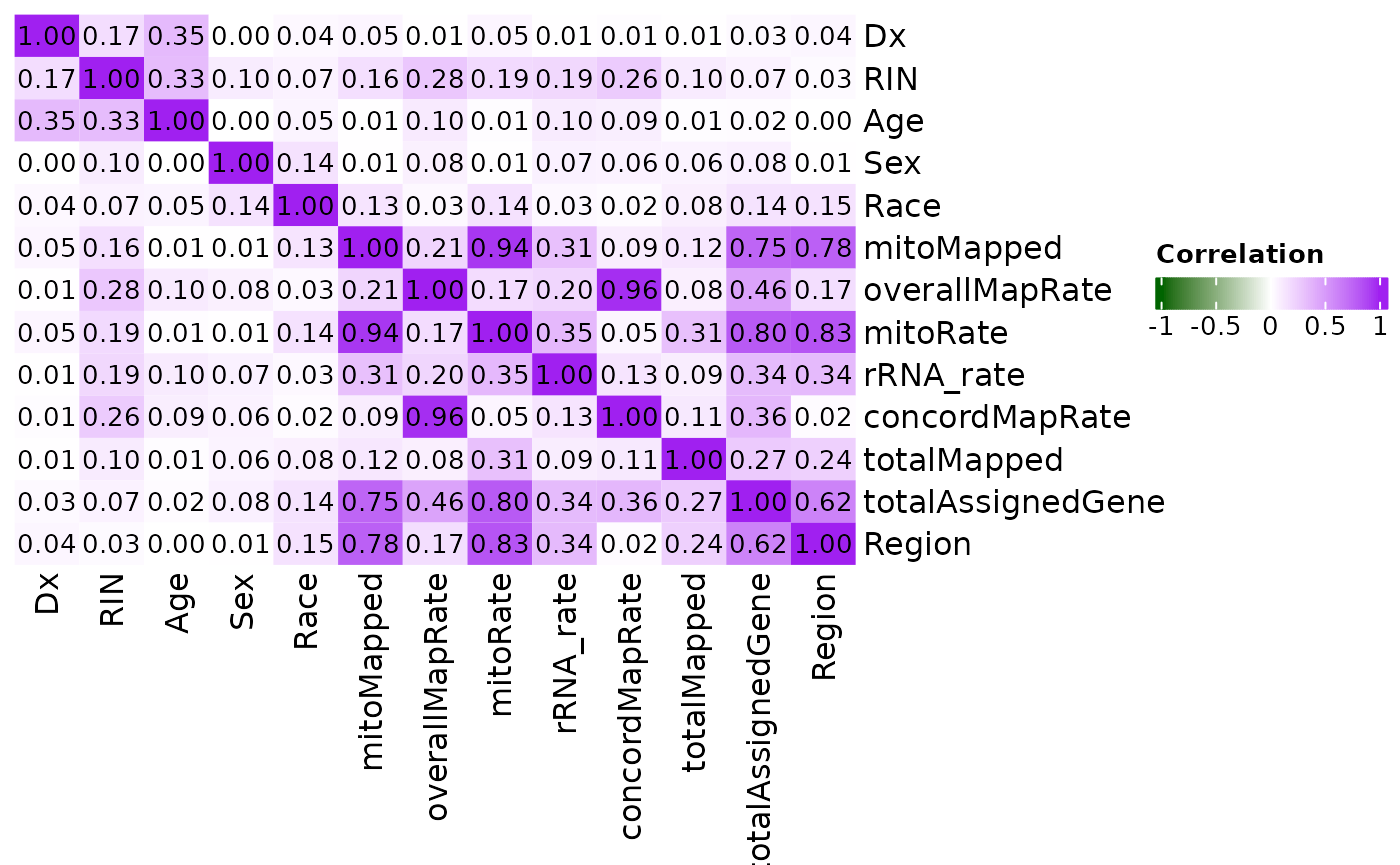
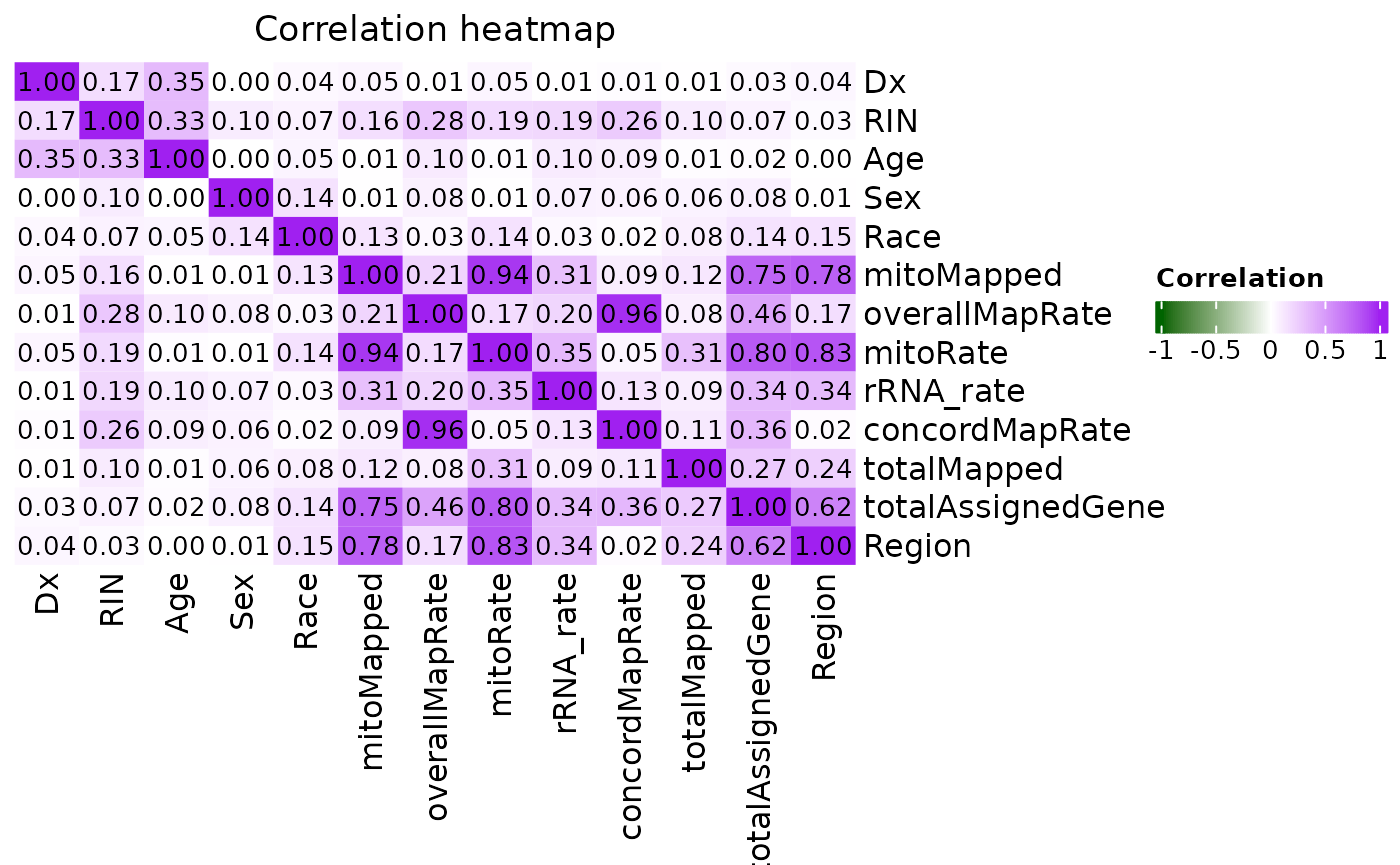
Deploying to gh-pages from @ HediaTnani/qsvaRPkgDemo@ebe20f3e31a251d830d5f569ed6f663e0bb39237 🚀

Changed region(s): [[0.0, 0.0, 1.0, 0.6555]]

diff --git a/articles/qsvaRPkgDemo.html b/articles/qsvaRPkgDemo.html
@@ -496,13 +496,15 @@ categorical variables, this is equivalent to Cramer’s V statistic.</p>
 <span><span class="co"># Create a color function from green to purple</span></span>
 <span><span class="va">color_func</span> <span class="op">&lt;-</span> <span class="fu"><a href="https://rdrr.io/pkg/colorRamp2/man/colorRamp2.html" class="external-link">colorRamp2</a></span><span class="op">(</span><span class="fu"><a href="https://rdrr.io/r/base/c.html" class="external-link">c</a></span><span class="op">(</span><span class="op">-</span><span class="fl">1</span>, <span class="fl">0</span>, <span class="fl">1</span><span class="op">)</span>, <span class="fu"><a href="https://rdrr.io/r/base/c.html" class="external-link">c</a></span><span class="op">(</span><span class="st">"darkgreen"</span>, <span class="st">"white"</span>, <span class="st">"purple"</span><span class="op">)</span><span class="op">)</span></span>
 <span></span>
-<span><span class="co"># Create the heatmap</span></span>
-<span><span class="fu"><a href="https://rdrr.io/pkg/ComplexHeatmap/man/Heatmap.html" class="external-link">Heatmap</a></span><span class="op">(</span><span class="va">correlation_matrix</span>,</span>
+<span></span>
+<span><span class="co"># Create the heatmap object</span></span>
+<span><span class="va">heatmap</span> <span class="op">&lt;-</span> <span class="fu"><a href="https://rdrr.io/pkg/ComplexHeatmap/man/Heatmap.html" class="external-link">Heatmap</a></span><span class="op">(</span><span class="va">correlation_matrix</span>,</span>
 <span>    name <span class="op">=</span> <span class="st">"Correlation"</span>, <span class="co"># Title for the color key</span></span>
 <span>    show_row_names <span class="op">=</span> <span class="cn">TRUE</span>, <span class="co"># Show row names</span></span>
 <span>    show_column_names <span class="op">=</span> <span class="cn">TRUE</span>, <span class="co"># Show column names</span></span>
 <span>    cluster_rows <span class="op">=</span> <span class="cn">FALSE</span>, <span class="co"># Do not cluster rows</span></span>
 <span>    cluster_columns <span class="op">=</span> <span class="cn">FALSE</span>, <span class="co"># Do not cluster columns</span></span>
+<span>    column_title <span class="op">=</span> <span class="st">"Correlation heatmap"</span>, <span class="co"># Add title to the heatmap</span></span>
 <span>    cell_fun <span class="op">=</span> <span class="kw">function</span><span class="op">(</span><span class="va">j</span>, <span class="va">i</span>, <span class="va">x</span>, <span class="va">y</span>, <span class="va">width</span>, <span class="va">height</span>, <span class="va">fill</span><span class="op">)</span> <span class="op">{</span></span>
 <span>        <span class="fu"><a href="https://rdrr.io/r/grid/grid.text.html" class="external-link">grid.text</a></span><span class="op">(</span><span class="fu"><a href="https://rdrr.io/r/base/sprintf.html" class="external-link">sprintf</a></span><span class="op">(</span><span class="st">"%.2f"</span>, <span class="va">correlation_matrix</span><span class="op">[</span><span class="va">i</span>, <span class="va">j</span><span class="op">]</span><span class="op">)</span>, <span class="va">x</span>, <span class="va">y</span>,</span>
 <span>            gp <span class="op">=</span> <span class="fu"><a href="https://rdrr.io/r/grid/gpar.html" class="external-link">gpar</a></span><span class="op">(</span>fontsize <span class="op">=</span> <span class="fl">10</span><span class="op">)</span></span>
@@ -514,8 +516,10 @@ categorical variables, this is equivalent to Cramer’s V statistic.</p>
 <span>        color_bar <span class="op">=</span> <span class="st">"continuous"</span>, <span class="co"># type of color bar</span></span>
 <span>        legend_direction <span class="op">=</span> <span class="st">"horizontal"</span> <span class="co"># direction of legend</span></span>
 <span>    <span class="op">)</span></span>
-<span><span class="op">)</span> <span class="op">+</span></span>
-<span><span class="fu"><a href="https://ggplot2.tidyverse.org/reference/labs.html" class="external-link">ggtitle</a></span><span class="op">(</span><span class="st">"Correlation heatmap"</span><span class="op">)</span></span></code></pre></div>
+<span><span class="op">)</span></span>
+<span></span>
+<span><span class="co"># Draw the heatmap</span></span>
+<span><span class="fu"><a href="https://rdrr.io/pkg/ComplexHeatmap/man/draw-dispatch.html" class="external-link">draw</a></span><span class="op">(</span><span class="va">heatmap</span><span class="op">)</span></span></code></pre></div>
 <p><img src="qsvaRPkgDemo_files/figure-html/PlotHeatmap-1.png" width="700"></p>
 <p>The <code>cell_fun</code> function customizes the display of each
 cell in the heatmap by adding the correlation value as text inside the
@@ -1040,9 +1044,9 @@ and Henry, 2023)</li>
 <span><span class="kw"><a href="https://rdrr.io/r/base/library.html" class="external-link">library</a></span><span class="op">(</span><span class="st"><a href="https://yihui.org/knitr/" class="external-link">"knitr"</a></span><span class="op">)</span></span>
 <span><span class="fu"><a href="https://rdrr.io/pkg/knitr/man/knit.html" class="external-link">knit</a></span><span class="op">(</span><span class="st">"qsvaRPkgDemo.Rmd"</span>, tangle <span class="op">=</span> <span class="cn">TRUE</span><span class="op">)</span></span></code></pre></div>
 <p>Date the vignette was generated.</p>
-<pre><code><span><span class="co">#&gt; [1] "2023-07-27 11:57:44 UTC"</span></span></code></pre>
+<pre><code><span><span class="co">#&gt; [1] "2023-07-27 12:21:48 UTC"</span></span></code></pre>
 <p>Wallclock time spent generating the vignette.</p>
-<pre><code><span><span class="co">#&gt; Time difference of 1.378 mins</span></span></code></pre>
+<pre><code><span><span class="co">#&gt; Time difference of 1.411 mins</span></span></code></pre>
 <p><code>R</code> session information.</p>
 <pre><code><span><span class="co">#&gt; <span style="color: #00BBBB; font-weight: bold;">─ Session info ───────────────────────────────────────────────────────────────────────────────────────────────────────</span></span></span>
 <span><span class="co">#&gt;  <span style="color: #555555; font-style: italic;">setting </span> <span style="color: #555555; font-style: italic;">value</span></span></span>
